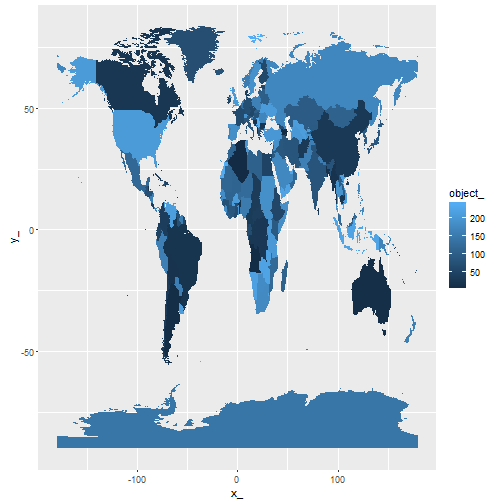
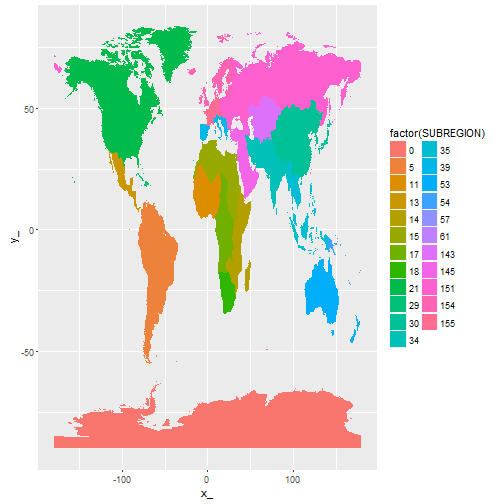
stick with one-level nesting

diff --git a/README.md b/README.md
@@ -214,25 +214,43 @@ The "geometry-column" approach stores the complex object in a special column typ
 
 See [sp.df]( https://github.com/mdsumner/sp.df) which is separated from this project because the methods required needs a lot of experimentation. 
 
-# 4) single-level nesting: tidy fortify
+# 4) single-level nesting: tidyr fortify
 
-sportify?
-
-# 5) double-level nesting: even tidier fortify
-
-nsp_df
-
-Please note that this cannot currently do polygons with holes properly, `geom_polygon` assumes you may only have one hole and is relying on `col` not being set. 
+Using `nest` will give us the analog of `fortify.Spatial*DataFrame` in the `Object_` column. 
 
 
 ```r
-library(dplyr)
+library(maptools)
+data(wrld_simpl)
 library(tidyr)
+wnest <- nest(wrld_simpl)
+ 
+(wtab <- wnest %>% select(Object_, SUBREGION) %>% unnest())
+#> Source: local data frame [26,264 x 6]
+#> 
+#>    SUBREGION branch_ island_ order_         x_       y_
+#>        (int)   (int)   (lgl)  (int)      (dbl)    (dbl)
+#> 1         29       1   FALSE      1 -61.686668 17.02444
+#> 2         29       1   FALSE      2 -61.887222 17.10527
+#> 3         29       1   FALSE      3 -61.794449 17.16333
+#> 4         29       1   FALSE      4 -61.686668 17.02444
+#> 5         29       2   FALSE      1 -61.729172 17.60861
+#> 6         29       2   FALSE      2 -61.853058 17.58305
+#> 7         29       2   FALSE      3 -61.873062 17.70389
+#> 8         29       2   FALSE      4 -61.729172 17.60861
+#> 9         15       3   FALSE      1   2.963610 36.80222
+#> 10        15       3   FALSE      2   4.785832 36.89472
+#> ..       ...     ...     ...    ...        ...      ...
+
 library(ggplot2)
-(nest(wrld_simpl)   %>% select(NAME, Object_, object_)  %>% unnest()  %>% unnest())  %>% ggplot() + aes(x_, y_, group = branch_, fill = object_) + geom_polygon()
+ggplot(wtab) + aes(x = x_, y = y_, fill = factor(SUBREGION), group = branch_) + geom_polygon()
 ```
 
 ![plot of chunk unnamed-chunk-7](figure/README-unnamed-chunk-7-1.png)
+# 5) double-level nesting: even tidier fortify
+
+Unclear at the moment if this is worth doing at all. we can save space but it ends up like a recursive sp object anyway so we don't really gain anything. 
+
 
 # 6) normalized-nesting: one table of non-analogous tables
 
@@ -245,7 +263,6 @@ gris
 
 # Issues
 
-* names are not permanent yet, consider using "_" append like in gggeom for "special" columns
 * need semantics for one-to-many and many-to-one copy rules, i.e. exploding an object copies? all attributes to the new objects or perhaps applies a proportional rule - see Transfer Rules in Manifold
 * some details are carried by attr()ibutes on the objects, like "crs" - these don't survive the journey through functions without using classes - ultimately a branched object should carry this information with it
 * 
